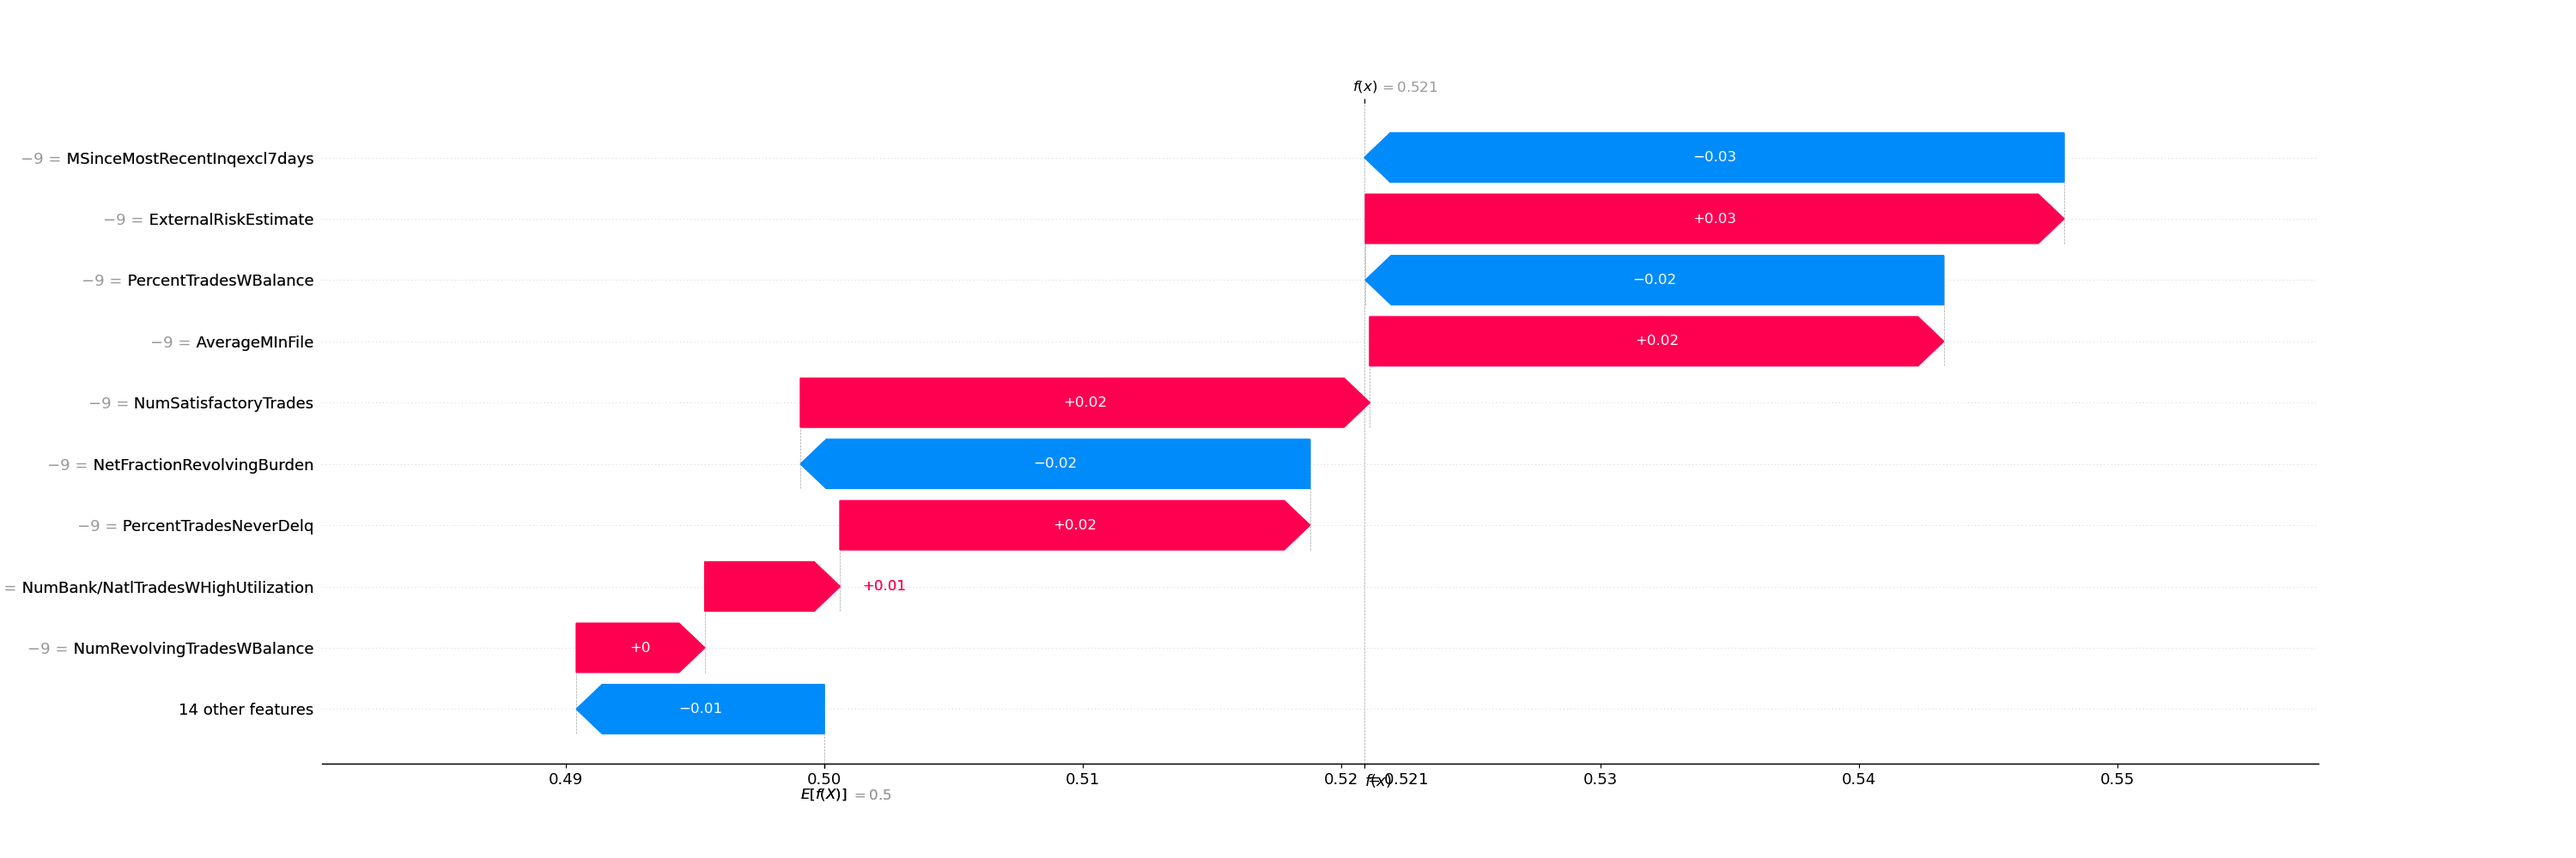
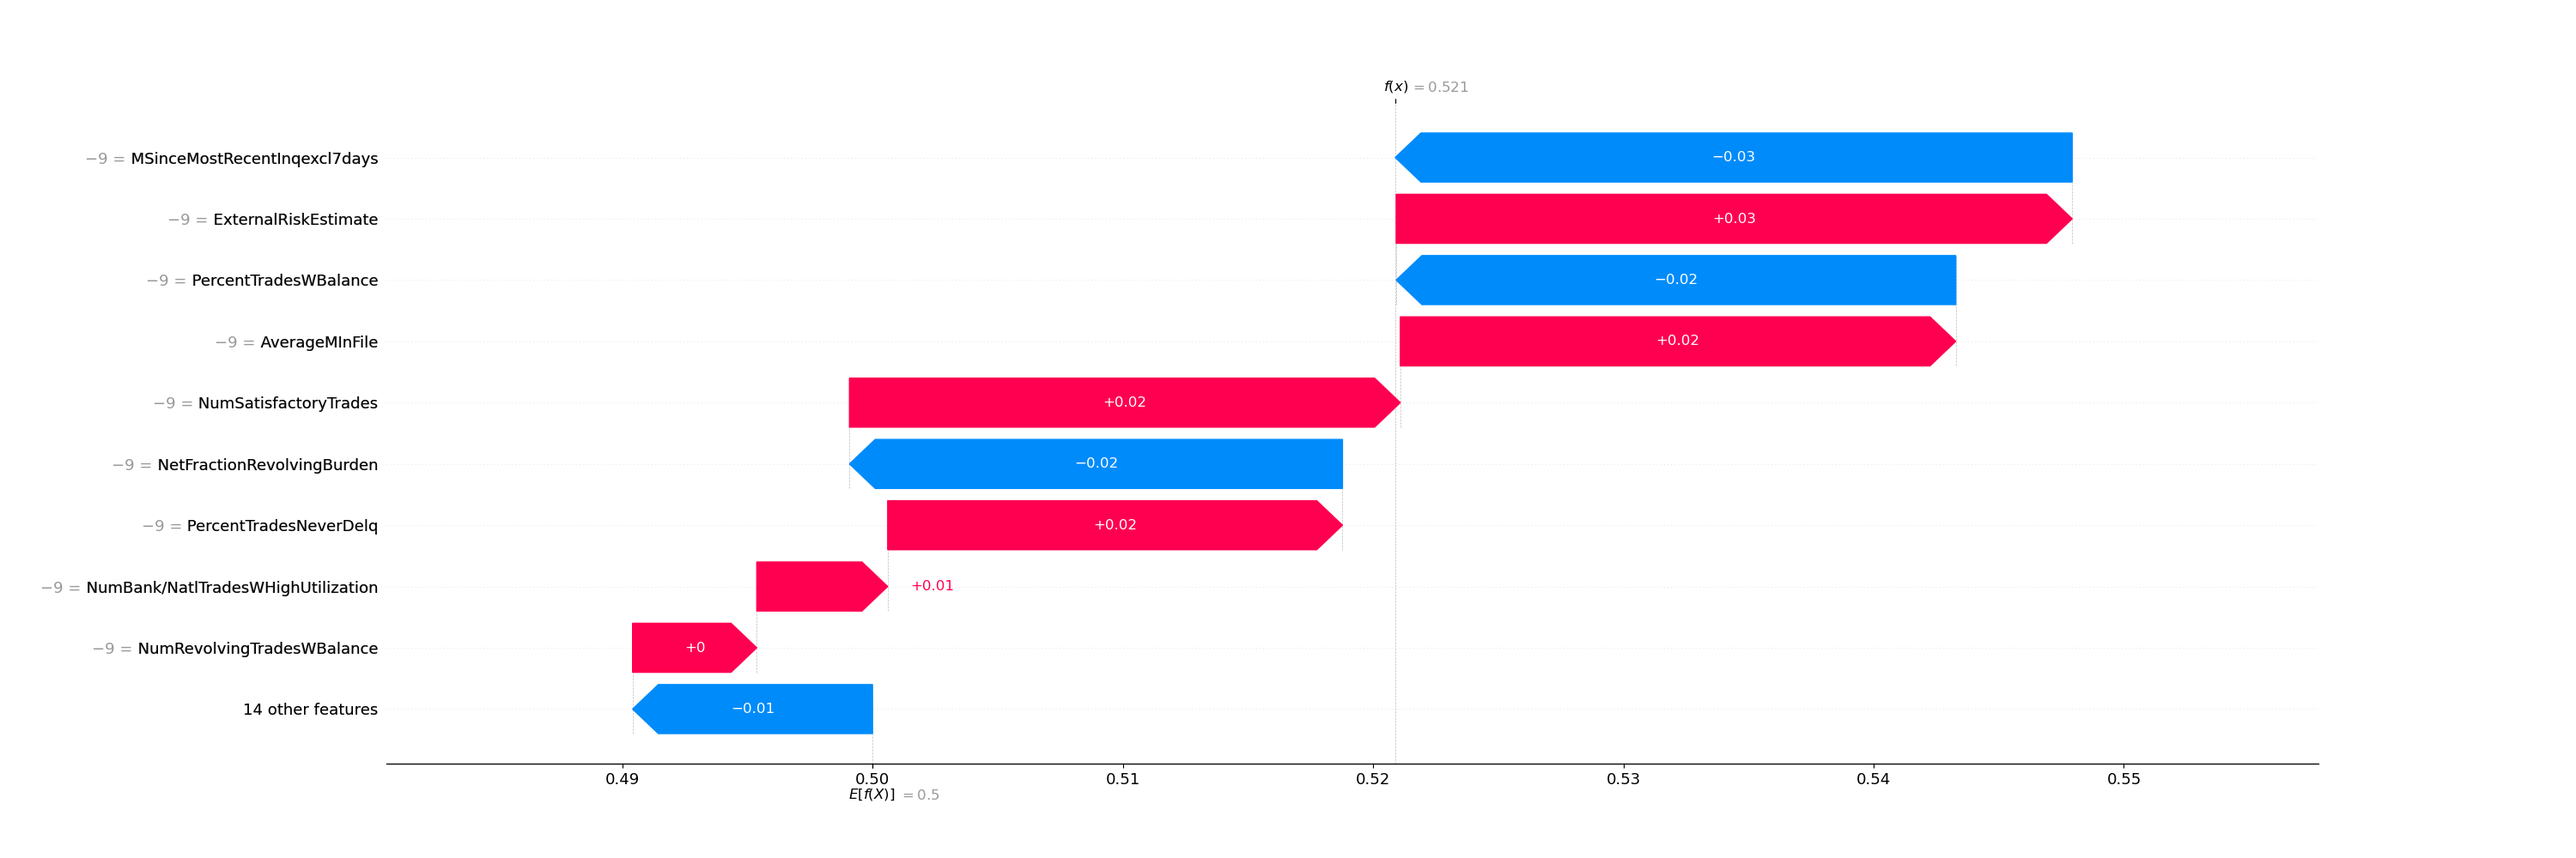
added clear last figure

diff --git a/Lime_shap.py b/Lime_shap.py
@@ -36,6 +36,7 @@ def lime_explain(limemodel, model, input_values):
     limeplot.subplots_adjust(left=0.15)
     limeplot.set_size_inches(23, 10)
     limeplot.savefig('lime_explain.jpg')
+    plt.clf()
     print('lime explained')
 
 def get_shap_model(model):
@@ -83,6 +84,7 @@ def shap_waterfall_plot(explainer, shap_values, data, featurenames):
     shap.plots.waterfall(thing, show=False)
     plt.gcf().set_size_inches(30, 10)
     plt.savefig('shap_waterfall.png')
+    plt.clf()
     print('shap explained')
 
 
